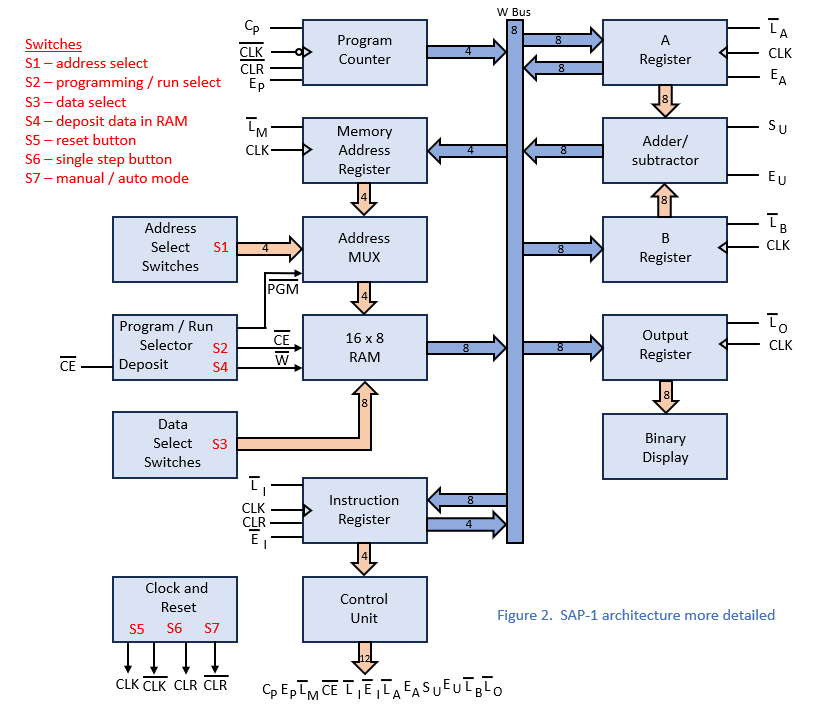
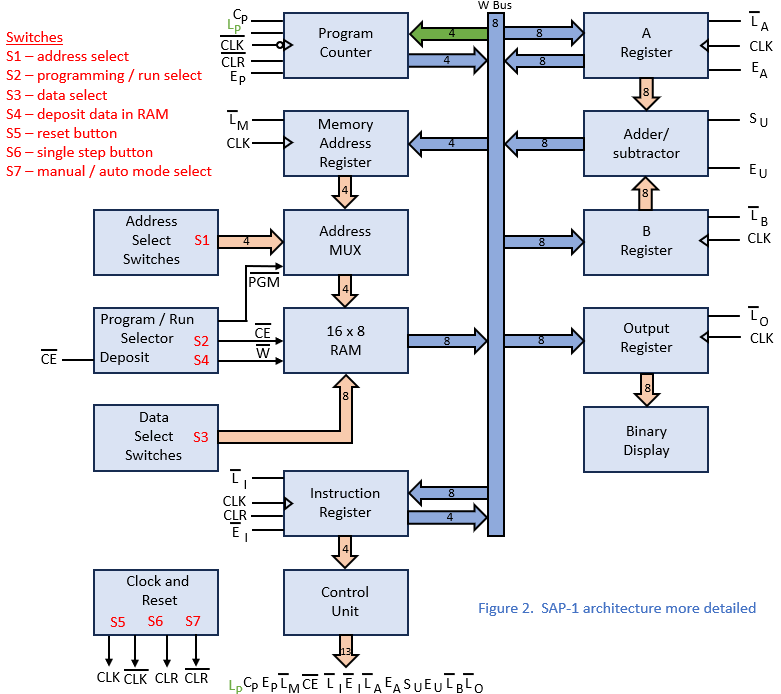
modified:   README.md

Changed region(s): [[0.0, 0.0, 0.9834, 0.9986], [0.6146, 0.8473, 0.9526, 0.9078], [0.5224, 0.3026, 0.5531, 0.3934]]

diff --git a/README.md b/README.md
@@ -1,4 +1,4 @@
-# Improved SAP Computer
+# SAP 1 Computer
 
 The improved version of the SAP computer
 
@@ -21,16 +21,46 @@ References:
 
 An interesting fact is that I discovered a girl who made the SAP-1 calculator using breadboards in October 2011, and Ben Eater in February 2015, so 4 years earlier! This is that video: https://www.youtube.com/watch?v=KkTMICyp6xA. She built the SAP-1 computer using breadboards for a school project. It's a pity that the video presented is not of better quality.
 
-## Stages of the project:
-[ 1 - Design requirements; ](https://github.com/LincaMarius/ISAP-Computer/blob/main/Stage1/Stage1.md) \
-[ 2 - Design improvement by analyzing and modifying the block diagram; ](https://github.com/LincaMarius/ISAP-Computer/blob/main/Stage2/Stage2.md) \
-3 - Simulate functionality using one of the programs: Logisim, Logisim Evolution, LTspice, NI Multisim, Proteus, OrCAD, TINA, CircuitMaker, Simulink, etc. I will use Ligisim;\
-4 - Electrical diagram design using one of the programs: KiCAD, Altium Designer, Eagle, OrCAD, Fusion 360, Proteus, etc. - I will use KiCAD;\
-5 - Prototype creation and functionality testing;\
-6 - PCB design;\
-7 - Testing the new product;\
-8 - Final product assembly;\
-9 - Subsequent revisions of the product as often as necessary.
+## Design improvement by analyzing and modifying the block diagram of the SAP-1 computer
 
+The original Block Diagram of the SAP-1 computer can be found in the book "Digital Computer Electronics" by Albert Paul Malvino and Jerald A. Brown, on page 141 and is labeled Figure 10-1.
 
+In the following figure, I present to you a reproduction of the block diagram of the SAP-1 computer.
+
+![ Figure 1 ](/Pictures/Figure1.png)
+
+I studied the original electronic schematic of the SAP-1 computer and recreated the block diagram to represent the actual functional blocks as closely as possible and I present it in the following figure.
+
+![ Figure 2 ](/Pictures/Figure2.png)
+
+The programming mode of the SAP-1 computer described by the authors is as follows:
+a.	Move the selector S2 to the PROG position,
+b.	The memory address to be modified is selected from switches S1,
+c.	Select from the S3 switches the date that you want to be written in the memory at the previously set address,
+d.	Press button S4 to write the new value to memory,
+e.	Repeat steps b, c and d until all desired changes have been made,
+f.	Move selector S2 to the RUN position, to run the program.
+
+## Improved design by adding possibility for Program Counter to be preset
+
+From the block diagram it can be seen that the Program Counter cannot be loaded with a desired value, thus we do not have the possibility to make jumps in the execution of the running programs.
+
+So the first, simplest modification is to make the Program Counter able to be loaded with any value present on the W bus, if the new LP control signal is active. As can be seen in the following figure represented in green.
+
+![ Figure 3 ](/Pictures/Figure3.png)
+
+The ability to load numeric values into the Program Counter allows us to extend the computer's instruction set by implementing the unconditional jump instruction.
+
+## Improving the design by adding a keyboard for entering input data
+
+From Figure 3 it can be seen that there is no possibility for the user to interact with the computer while the program is running.
+
+There is the S3 switch set but it can only be used in programming mode to change the RAM contents.
+
+Thus, I removed the S3 switch set and introduced the Binary Input Keyboard block which also consists of 8 switches with the role of entering any 8-bit binary value.
+
+When the command signal EK is active the binary value entered by the operator is presented on the W bus. Thus, it can be loaded into RAM during programming or into Accumulator during normal program runs.
+The new elements introduced are represented in figure 4 in green.
+
+![ Figure 4 ](/Pictures/Figure4.png)
 
